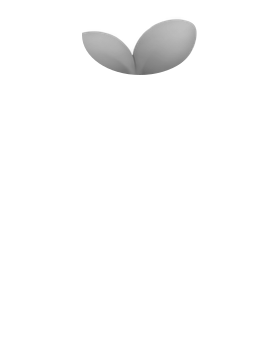
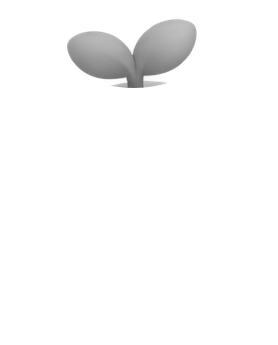
펫 부위 마스크 정확도 개선 + 개발용 성장 단계 미리보기 추가
사용자 신고 2건 수정:
- 알 단계 눈이 "회색 동그라미"로 보이던 문제 — 감은 눈은 얇은 곡선인데 타원 마스크로
  근사해서 주변 몸통 픽셀까지 크게 잡혔던 게 원인. 밝기(luma) 임계값으로 실제 잉크
  픽셀만 골라내는 방식으로 교체.
- 잎사귀 색이 안 바뀌던 문제 — 알 단계는애초에 PetMascot.tsx의 부위 목록(parts)에
  "leaf"가 빠져서 레이어 자체가 안 그려지고 있었다(단순 누락 버그). 다른 단계들도
  잎사귀 마스크가 실제 잎보다 작아서 색이 잘 안 바뀌는 것처럼 보이던 것을 알파 스캔
  기반으로 넉넉하게 재조정.

추가로 흰자(눈 흰 부분) 마스크가 실제보다 커서 몸 색을 바꿔도 눈 주변에 원래 라벤더색
고리가 남던 것을, 타원 대신 실제 흰색에 가까운 픽셀만 골라내는 방식으로 교체해 해소.

design-assets/extract-pet-layers.js를 원본 이미지에서 직접 크롭부터 하도록 재작성해서
재현 가능하게 만들었다.

개발용: PetCustomize 화면에 성장 단계 미리보기 토글(알/유년기/청소년기/성체) 추가 —
실제 XP를 안 쌓아도 4단계 그림을 다 볼 수 있다(사용자 요청 "다 해금 해서 보여줘").
pet.stage_index 자체는 안 바꾸고 화면 미리보기만 바꾼다.

Changed region(s): [[0.2302, 0.087, 0.6043, 0.2609], [0.6043, 0.1739, 0.6619, 0.2029]]

diff --git a/design-assets/extract-pet-layers.js b/design-assets/extract-pet-layers.js
@@ -1,25 +1,15 @@
 // 참고 이미지(사용자 제공, design-assets/pet-mascot-reference.png)를 부위별 레이어로 분리하는
-// 1회성 스크립트(2026-09-15) — public/pets/*-gray.png·*-fixed.png가 이 스크립트의 결과물이다.
-// 재실행하려면 이 파일을 실행하기 전에 아래 순서가 필요하다:
-//   1) pet-mascot-reference.png(1536x1024, 5스테이지 합성본)에서 스테이지별로 크롭
-//      — stage-1-egg: {left:0,top:385,width:265,height:330}
-//      — stage-2:     {left:265,top:370,width:278,height:345}
-//      — stage-3:     {left:543,top:290,width:286,height:425}
-//      — stage-4:     {left:829,top:200,width:361,height:515}
-//      — stage-3-sulking: {left:1190,top:285,width:346,height:430} (크롭 후 좌상단 0,140~16,180
-//        영역에 stage-4의 코인/반짝임 장식이 새어 들어오므로 dest-out으로 지워야 함)
-//   2) 각 크롭을 public/pets/{stage}.png로 저장
-//   3) 이 스크립트 실행(각 스테이지 PNG에서: leaf/pupils/ledger/bag는 그레이스케일+마스크로,
-//      fixed(눈흰자·볼·입·코인 등 고정 요소)는 원색 그대로 마스크로 추출. body는
-//      "전체 알파 - (leaf∪pupils∪ledger∪bag∪fixed)"로 계산)
-//   4) 결과물({stage}-*.png)만 남기고 1)의 임시 크롭 파일은 지운다(런타임에 안 쓴다)
-// 마스크 좌표(ellipse/rect)는 참고 이미지를 육안으로 보고 잡은 근사치라 부위 경계에 약간의
-// 오차(예: 입 주변에 살짝 남는 몸통색 여백)가 있을 수 있다 — 완벽한 픽셀 단위 분리가 아니라
-// "부위별 색상이 실제로 바뀌는 것"을 우선한 실용적 타협.
+// 스크립트(2026-09-15, 2차 수정) — public/pets/*-gray.png·*-fixed.png가 이 스크립트의 결과물이다.
+// 1차 버전은 stage_index=1(알)의 눈 마스크가 타원이라 실제 얇은 곡선보다 훨씬 크게 잡혀 "회색
+// 동그라미"로 보였고(사용자 신고, 2026-09-15), 잎사귀 타원도 실제 잎보다 작아서 색이 잘 안 바뀌는
+// 것처럼 보였다 — 이번 버전은 원본 이미지를 이 스크립트가 직접 크롭하는 것부터 다시 하고, 알 단계
+// 눈은 밝기(luma) 임계값으로 실제 잉크 픽셀만 골라내고, 잎사귀 타원은 전부 여유 있게 키웠다.
+// 재실행: `node design-assets/extract-pet-layers.js` (프로젝트 루트에서, sharp가 있어야 함).
 const sharp = require("sharp");
 const path = require("path");
 
-const DIR = "C:/planning/public/pets";
+const REF = path.join(__dirname, "pet-mascot-reference.png");
+const DIR = path.join(__dirname, "..", "public", "pets");
 
 function ellipse(cx, cy, rx, ry) {
   return `<ellipse cx="${cx}" cy="${cy}" rx="${rx}" ry="${ry}" fill="white"/>`;
@@ -31,101 +21,128 @@ function maskSvg(width, height, shapes) {
   return Buffer.from(`<svg xmlns="http://www.w3.org/2000/svg" width="${width}" height="${height}">${shapes.join("")}</svg>`);
 }
 
+// 1536x1024 합성본에서 스테이지별로 크롭할 좌표(참고 이미지를 육안+알파 스캔으로 잡음).
+const CROPS = {
+  "stage-1-egg": { left: 0, top: 385, width: 265, height: 330 },
+  "stage-2": { left: 265, top: 370, width: 278, height: 345 },
+  "stage-3": { left: 543, top: 290, width: 286, height: 425 },
+  "stage-4": { left: 829, top: 200, width: 361, height: 515 },
+  "stage-3-sulking": { left: 1190, top: 285, width: 346, height: 430 },
+};
+
+// 부위별 마스크 도형. leaf는 실제 알파 경계보다 조금 더 넉넉하게 잡았다(작으면 "색이 안 바뀌는
+// 것처럼" 보이고, 조금 크더라도 z-order상 눈·볼 등 fixed/pupils 레이어가 위에 그려져서 티가 안 남).
 const STAGES = {
   "stage-1-egg": {
-    w: 265, h: 330,
-    leaf: [ellipse(117, 62, 26, 34)],
-    pupils: [ellipse(82, 205, 26, 13), ellipse(178, 200, 26, 13)], // 감은 눈 아치도 eye_color로 취급
-    fixed: [ellipse(78, 222, 22, 14), ellipse(185, 215, 22, 14)], // 볼
+    leaf: [ellipse(140, 65, 66, 50)],
+    // 알 단계 눈은 얇게 감은 곡선이라 타원 마스크 대신 luma 임계값을 쓴다(아래 buildEyeMaskByLuma).
+    eyeBoxForLumaMask: { x0: 100, x1: 225, y0: 180, y1: 225, lumaMax: 170 },
+    fixed: [ellipse(95, 232, 26, 16), ellipse(228, 220, 26, 16)], // 볼
   },
   "stage-2": {
-    w: 278, h: 345,
-    leaf: [ellipse(140, 35, 58, 40)],
+    leaf: [ellipse(134, 42, 74, 46)],
     pupils: [ellipse(97, 157, 17, 19), ellipse(182, 150, 17, 19)],
     fixed: [
-      ellipse(97, 157, 32, 34), ellipse(182, 150, 32, 34), // 눈 흰자
-      ellipse(148, 197, 19, 13), // 입
-      ellipse(70, 188, 20, 14), ellipse(213, 182, 20, 14), // 볼
-      ellipse(240, 50, 26, 26), // 하트 장식
+      ellipse(97, 157, 32, 34), ellipse(182, 150, 32, 34),
+      ellipse(148, 197, 19, 13),
+      ellipse(70, 188, 20, 14), ellipse(213, 182, 20, 14),
+      ellipse(240, 50, 26, 26),
     ],
   },
   "stage-3": {
-    w: 286, h: 425,
-    leaf: [ellipse(155, 45, 62, 50)],
+    leaf: [ellipse(135, 48, 78, 56)],
     pupils: [ellipse(100, 178, 19, 21), ellipse(205, 168, 19, 21)],
     ledger: [rect(130, 246, 92, 64, 10)],
     fixed: [
       ellipse(100, 178, 35, 39), ellipse(205, 168, 35, 39),
       ellipse(168, 214, 21, 15),
       ellipse(75, 205, 23, 16), ellipse(240, 198, 23, 16),
-      rect(228, 10, 45, 65), // 우측 상단 모션 라인
+      rect(228, 10, 45, 65),
     ],
   },
   "stage-4": {
-    w: 361, h: 515,
-    leaf: [ellipse(175, 65, 92, 64)],
+    leaf: [ellipse(220, 50, 105, 60)],
     pupils: [ellipse(140, 205, 23, 27), ellipse(258, 193, 21, 25)],
     bag: [ellipse(75, 375, 60, 60), ellipse(65, 345, 15, 11)],
     fixed: [
       ellipse(140, 205, 44, 50), ellipse(258, 193, 42, 48),
       ellipse(222, 259, 27, 17),
       ellipse(115, 271, 27, 17), ellipse(290, 251, 27, 17),
-      rect(255, 0, 106, 175), // 코인+반짝임
+      rect(255, 0, 106, 175),
     ],
   },
   "stage-3-sulking": {
-    w: 346, h: 430,
-    leaf: [ellipse(150, 95, 57, 47)],
+    // 크롭 직후 좌상단에 stage-4의 코인/반짝임이 새어 들어와서 지워야 한다(eraseFirst).
+    eraseFirst: [rect(0, 0, 42, 148), rect(0, 140, 16, 40)],
+    leaf: [ellipse(150, 85, 72, 55)],
     pupils: [ellipse(108, 248, 19, 21), ellipse(220, 238, 19, 21)],
     fixed: [
       ellipse(108, 248, 37, 41), ellipse(220, 238, 37, 41),
       ellipse(165, 286, 19, 11),
       ellipse(80, 266, 21, 14), ellipse(225, 259, 21, 14),
-      rect(240, 50, 100, 120), // 소용돌이 장식
+      rect(240, 50, 100, 120),
     ],
   },
 };
 
+// 알 단계 눈처럼 "얇은 곡선"은 타원으로 근사하면 주변 몸통 픽셀까지 크게 잡혀버려서, 지정한
+// 사각형 범위 안에서 실제로 어두운(luma 낮은) 픽셀만 골라 픽셀 단위 마스크를 만든다.
+async function buildEyeMaskByLuma(srcPath, w, h, box) {
+  const { data, info } = await sharp(srcPath).raw().toBuffer({ resolveWithObject: true });
+  const { width, height, channels } = info;
+  const maskRaw = Buffer.alloc(width * height);
+  for (let y = 0; y < height; y++) {
+    for (let x = 0; x < width; x++) {
+      const i = (y * width + x) * channels;
+      const luma = 0.3 * data[i] + 0.59 * data[i + 1] + 0.11 * data[i + 2];
+      const inBox = x >= box.x0 && x <= box.x1 && y >= box.y0 && y <= box.y1;
+      maskRaw[y * width + x] = inBox && luma < box.lumaMax ? 255 : 0;
+    }
+  }
+  return sharp(maskRaw, { raw: { width, height, channels: 1 } }).png().toBuffer();
+}
+
 async function run() {
   for (const [stage, cfg] of Object.entries(STAGES)) {
-    const srcPath = path.join(DIR, `${stage}.png`);
-    const { w, h } = cfg;
+    const crop = CROPS[stage];
+    let srcPipeline = sharp(REF).extract(crop);
+    if (cfg.eraseFirst) {
+      srcPipeline = srcPipeline.composite([{ input: maskSvg(crop.width, crop.height, cfg.eraseFirst), blend: "dest-out" }]);
+    }
+    const srcBuf = await srcPipeline.png().toBuffer();
+    const w = crop.width, h = crop.height;
 
-    const grayBuf = await sharp(srcPath).greyscale().png().toBuffer();
-    const colorBuf = await sharp(srcPath).png().toBuffer();
+    const grayBuf = await sharp(srcBuf).greyscale().png().toBuffer();
+    const colorBuf = srcBuf;
 
-    // 부위별 회색 레이어(재염색용)
-    const partDefs = [
-      ["leaf", cfg.leaf],
-      ["pupils", cfg.pupils],
-      ["ledger", cfg.ledger],
-      ["bag", cfg.bag],
-    ];
-    const allHoles = []; // body에서 빼야 할 마스크 도형(leaf∪pupils∪ledger∪bag∪fixed)
-    for (const [part, shapes] of partDefs) {
+    const holeBuffers = []; // body에서 뺄 마스크들(도형 마스크 또는 luma 마스크 PNG 버퍼) — dest-out에 그대로 사용
+
+    // 부위별 회색 레이어(재염색용) — 도형 기반
+    for (const part of ["leaf", "pupils", "ledger", "bag"]) {
+      const shapes = cfg[part];
       if (!shapes) continue;
-      allHoles.push(...shapes);
       const mask = maskSvg(w, h, shapes);
-      await sharp(grayBuf)
-        .composite([{ input: mask, blend: "dest-in" }])
-        .png()
-        .toFile(path.join(DIR, `${stage}-${part}-gray.png`));
+      holeBuffers.push(mask);
+      await sharp(grayBuf).composite([{ input: mask, blend: "dest-in" }]).png().toFile(path.join(DIR, `${stage}-${part}-gray.png`));
+    }
+
+    // 알 단계 눈 — luma 기반
+    if (cfg.eyeBoxForLumaMask) {
+      const eyeMask = await buildEyeMaskByLuma(srcBuf, w, h, cfg.eyeBoxForLumaMask);
+      holeBuffers.push(eyeMask);
+      await sharp(grayBuf).composite([{ input: eyeMask, blend: "dest-in" }]).png().toFile(path.join(DIR, `${stage}-pupils-gray.png`));
     }
 
     // 고정 요소(원색 그대로)
     if (cfg.fixed) {
-      allHoles.push(...cfg.fixed);
       const fixedMask = maskSvg(w, h, cfg.fixed);
-      await sharp(colorBuf)
-        .composite([{ input: fixedMask, blend: "dest-in" }])
-        .png()
-        .toFile(path.join(DIR, `${stage}-fixed.png`));
+      holeBuffers.push(fixedMask);
+      await sharp(colorBuf).composite([{ input: fixedMask, blend: "dest-in" }]).png().toFile(path.join(DIR, `${stage}-fixed.png`));
     }
 
-    // body = 원본 알파 - allHoles
-    const holesMask = maskSvg(w, h, allHoles);
+    // body = 원본 알파 - 모든 구멍(도형 마스크 + luma 마스크)
     await sharp(grayBuf)
-      .composite([{ input: holesMask, blend: "dest-out" }])
+      .composite(holeBuffers.map((buf) => ({ input: buf, blend: "dest-out" })))
       .png()
       .toFile(path.join(DIR, `${stage}-body-gray.png`));
 

diff --git a/components/screens/PetCustomize.tsx b/components/screens/PetCustomize.tsx
@@ -5,7 +5,7 @@ import { useState } from "react";
 import { useNav } from "../NavContext";
 import { useStore } from "@/lib/store";
 import { getPersonalPet } from "@/lib/selectors";
-import { PET_COLOR_PALETTE, PET_COLOR_PARTS, type PetColorPart } from "@/lib/pets";
+import { PET_COLOR_PALETTE, PET_COLOR_PARTS, PET_STAGE_LABELS, type PetColorPart } from "@/lib/pets";
 import PetMascot from "../PetMascot";
 import { ChevronLeftIcon } from "../icons";
 
@@ -20,6 +20,9 @@ export default function PetCustomize() {
       : { body: "#8C81E0", ledger: "#6A5ECF", bag: "#BDB2F2", eyes: "#2D2A3E", leaf: "#6FC5BA" }
   );
   const [saving, setSaving] = useState(false);
+  // 개발 중 미리보기용 — 실제 XP를 안 쌓아도 4단계 그림을 전부 볼 수 있게 임시로 넣었다(2026-09-15
+  // 사용자 요청 "다 해금 해서 보여줘"). pet.stage_index 자체는 안 바꾸고 화면 미리보기만 바꾼다.
+  const [previewStage, setPreviewStage] = useState(pet?.stage_index ?? 1);
 
   function setPart(part: PetColorPart, color: string) {
     setColors((prev) => ({ ...prev, [part]: color }));
@@ -60,7 +63,32 @@ export default function PetCustomize() {
 
       <div style={{ flex: 1, overflowY: "auto", padding: "10px 20px 24px" }}>
         <div style={{ display: "flex", justifyContent: "center", padding: "12px 0 20px" }}>
-          <PetMascot pet={{ stage_index: pet.stage_index, body_color: colors.body, ledger_color: colors.ledger, bag_color: colors.bag, eye_color: colors.eyes, leaf_color: colors.leaf }} size={120} />
+          <PetMascot pet={{ stage_index: previewStage, body_color: colors.body, ledger_color: colors.ledger, bag_color: colors.bag, eye_color: colors.eyes, leaf_color: colors.leaf }} size={120} />
+        </div>
+
+        {/* 개발 중 미리보기 — 실제 성장 단계(pet.stage_index)와 무관하게 4단계를 다 볼 수 있다. */}
+        <div style={{ display: "flex", justifyContent: "center", gap: 6, marginBottom: 18 }}>
+          {PET_STAGE_LABELS.map((label, i) => {
+            const stage = i + 1;
+            const selected = stage === previewStage;
+            return (
+              <div
+                key={stage}
+                onClick={() => setPreviewStage(stage)}
+                style={{
+                  padding: "6px 12px",
+                  borderRadius: 999,
+                  fontSize: 12,
+                  fontWeight: 700,
+                  cursor: "pointer",
+                  background: selected ? "var(--shoot-accent)" : "var(--shoot-surface-alt)",
+                  color: selected ? "#fff" : "var(--shoot-text-muted)",
+                }}
+              >
+                {label}
+              </div>
+            );
+          })}
         </div>
 
         <div style={{ display: "flex", flexDirection: "column", gap: 12 }}>

diff --git a/components/PetMascot.tsx b/components/PetMascot.tsx
@@ -31,7 +31,7 @@ interface PetAsset {
   parts: readonly PetAssetPart[];
 }
 const STAGE_ASSET: Record<1 | 2 | 3 | 4, PetAsset> = {
-  1: { key: "stage-1-egg", w: 265, h: 330, parts: [] },
+  1: { key: "stage-1-egg", w: 265, h: 330, parts: ["leaf"] },
   2: { key: "stage-2", w: 278, h: 345, parts: ["leaf"] },
   3: { key: "stage-3", w: 286, h: 425, parts: ["leaf", "ledger"] },
   4: { key: "stage-4", w: 361, h: 515, parts: ["leaf", "bag"] },
